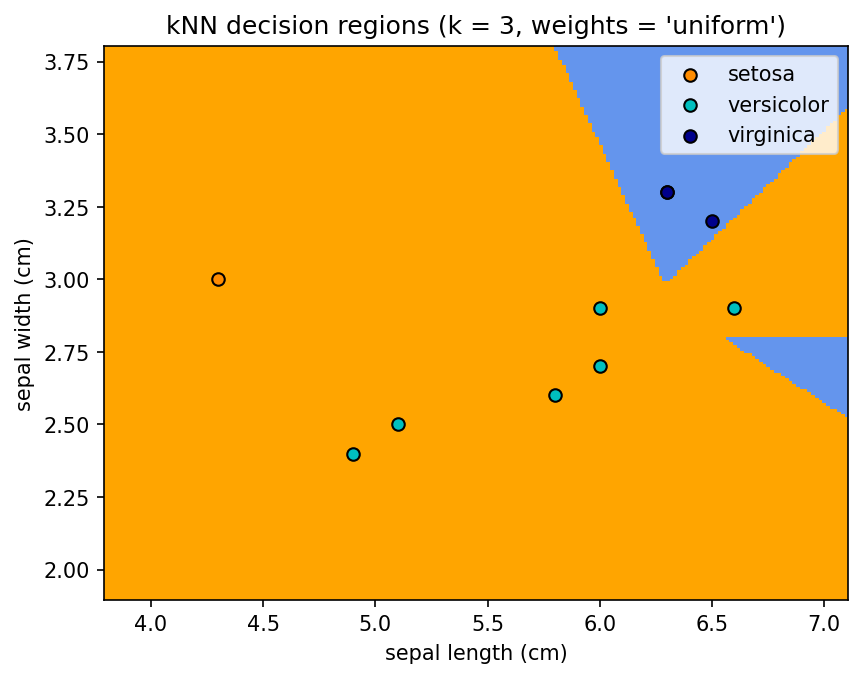
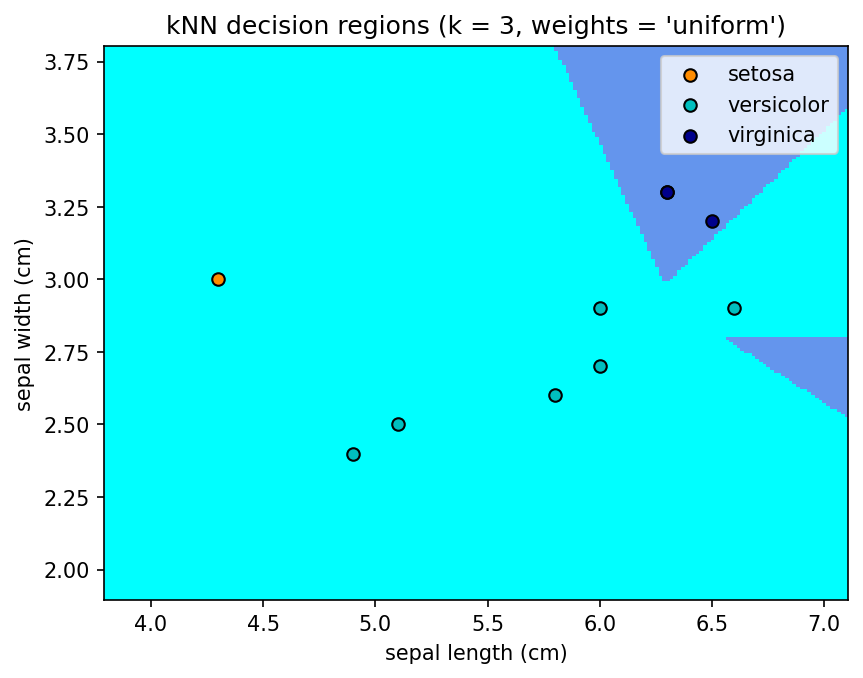
Sync lecture notes from internal main (2026-10-05)

diff --git a/04 Probability Theory.md b/04 Probability Theory.md
@@ -92,7 +92,11 @@ P_X(A) = \int_A p_X(x) \, d\mu_{\text{Leb}}(x), \\
 \end{gathered}$$
 For $k=1$ this is the familiar $P_X(A) = \int_A p_X(x)\,dx$. Not every random variable admits a density (some are discrete, some are neither), but every case relevant to this course is either discrete or admits one.
 
-**Example (three coin tosses).** Toss a fair coin three times; write $H$ for heads and $T$ for tails. The sample space is $\Omega = \{HHH, HHT, HTH, HTT, THH, THT, TTH, TTT\}$, and since the coin is fair and the tosses are independent, $P(\omega) = \big(\tfrac12\big)^3 = \tfrac18$ for every $\omega \in \Omega$. Let $X: \Omega \to \{0,1,2,3\}$ count the number of heads. Then $X$ is a (measurable, since $\Omega$ is finite and $\mathcal{F}=2^\Omega$) random variable with pmf
+**Example (three coin tosses).** Toss a fair coin three times; write $H$ for heads and $T$ for tails. The sample space is
+
+$$\Omega = \{HHH, HHT, HTH, HTT, THH, THT, TTH, TTT\} ,$$
+
+and since the coin is fair and the tosses are independent, $P(\omega) = \big(\tfrac12\big)^3 = \tfrac18$ for every $\omega \in \Omega$. Let $X: \Omega \to \{0,1,2,3\}$ count the number of heads. Then $X$ is a (measurable, since $\Omega$ is finite and $\mathcal{F}=2^\Omega$) random variable with pmf
 
 1. $P(X=0) = P(\{TTT\}) = \frac{1}{8}$,
 2. $P(X=1) = P(\{TTH, THT, HTT\}) = \frac{3}{8}$,

diff --git a/03 Classification.md b/03 Classification.md
@@ -326,7 +326,10 @@ mesh = th.stack([gg0.reshape(-1), gg1.reshape(-1)], dim=1)
 
 def plot_regions(zz, k, weights):
     fig, ax = plt.subplots()
-    ax.pcolormesh(gg0, gg1, zz, cmap=cmap_light, shading="auto")
+    # vmin/vmax are pinned to the class range: with auto-scaling, a class absent
+    # from the predictions (e.g. a setosa point that never wins a 3-vote) would
+    # shift the color mapping and paint the remaining classes in the wrong colors.
+    ax.pcolormesh(gg0, gg1, zz, cmap=cmap_light, shading="auto", vmin=0, vmax=2)
     for c in range(3):
         pts = X_knn[y_knn == c]
         ax.scatter(pts[:, 0], pts[:, 1], c=cmap_bold[c],
